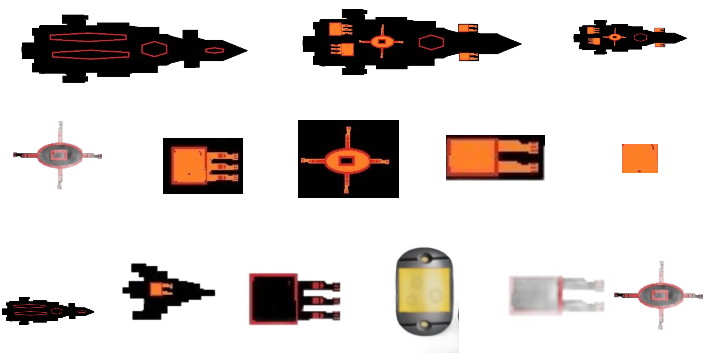
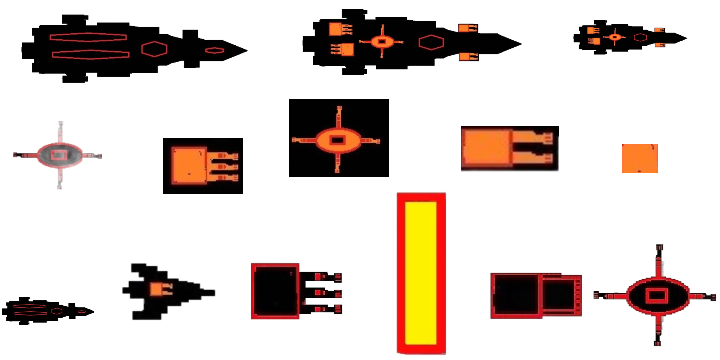
with spaceships and rotating guns

Changed region(s): [[0.3972, 0.275, 0.7944, 1.0], [0.6722, 0.6722, 1.0, 0.9778], [0.3361, 0.7333, 0.4889, 0.9167]]

diff --git a/src/my_game/objects/guns.js b/src/my_game/objects/guns.js
@@ -3,26 +3,140 @@
 import engine from "../../engine/index.js";
 
 class Guns extends engine.GameObject {
-    constructor(spriteTexture, atX, atY) {
+    constructor(spriteTexture, x, y) {
         super(null);
         this.kDelta = 0.2;
-        this.mRenderComponent = new engine.SpriteAnimateRenderable(spriteTexture);
+        this.mRenderComponent =  new engine.SpriteRenderable(spriteTexture);
         this.mRenderComponent.setColor([1, 1, 1, 0]);
-        this.mRenderComponent.getXform().setPosition(atX, atY);
-        this.mRenderComponent.getXform().setSize(10, 8);
-        this.mRenderComponent.setSpriteSequence(512, 0,      // first element pixel position: top-left 512 is top of image, 0 is left of image
-            204, 164,   // width x height in pixels
-            5,          // number of elements in this sequence
-            0);         // horizontal padding in between
-        this.mRenderComponent.setAnimationType(engine.eAnimationType.eSwing);
-        this.mRenderComponent.setAnimationSpeed(30);
+        this.mRenderComponent.getXform().setPosition(x, y);
+        this.mRenderComponent.getXform().setSize(50, 50);
+        this.firstPix=0;
+        this.secondPix=0;
+        this.thirdPix=0;
+        this.forthPix=0; 
+        this.renbdomN = Math.random();
+        this.GunType = 0;
+        if(this.renbdomN <= .3){
+
+        this.firstPix=250;
+        this.secondPix=350;
+        this.thirdPix=0;
+        this.forthPix=100; 
+
+      
+         
+        }else if (this.renbdomN >.3 && this.renbdomN <=.7 ){
+
+         this.firstPix=490;
+        this.secondPix=580 ;
+         this.thirdPix=0;
+         this.forthPix=100;
+        }else{
+
+        this.firstPix=590;
+        this.secondPix=735 ;
+         this.thirdPix=0;
+         this.forthPix=120;
+
+        }
+         
+        
+        this.mRenderComponent.setElementPixelPositions(this.firstPix, this.secondPix, this.thirdPix, this.forthPix);
+        this.mRenderComponent.getXform().setRotationInDegree(180);
         this.die = false;
+        this.size = this.mRenderComponent.getXform().getSize();
+
+        this.shouldBeDestroyedV= false;
+        this.downRight;
+        this.downLeft;
+        this.topRight;
+        this.topLeft;
+
+        this.directionMovingX = 1.0;
+        this.directionMovingY = 1.0;
+
+        this.speed = .5;
+        this.randomSpeedX = Math.random() * this.speed;
+        this.randomSpeedY = Math.random() * this.speed;
+
+        this.uP = true;
+        this.side = true;
     }
 
-    update() {
+    updateG(camra) {
         // remember to update this.mRenderComponent's animation
-        this.mRenderComponent.updateAnimation();
+
+        this.setupRandomDirection(camra);
+        this.mRenderComponent.getXform().setPosition(
+            this.mRenderComponent.getXform().getXPos() + (this.randomSpeedX * this.directionMovingX),
+            this.mRenderComponent.getXform().getYPos() + (this.randomSpeedY * this.directionMovingY));
+
+     
+        if (this.mRenderComponent.getXform().getXPos() > camra.getWCWidth() + 10){
+
+        };
+        if (this.mRenderComponent.die) {       
+
+       }
+}
+    drawGuns(camra){
+        this.mRenderComponent.draw(camra);
+
     }
+
+
+    setupRandomDirection(camra) {
+
+        this.object = this.mRenderComponent.getXform().getPosition();
+
+        this.downRight = [this.object[0] + (this.size[0] / 2), this.object[1] - (this.size[1] / 2)];
+        this.downLeft = [this.object[0] - (this.size[0] / 2), this.object[1] - (this.size[1] / 2)];
+
+        this.topRight = [this.object[0] + (this.size[0] / 2), this.object[1] - (this.size[1] / 2)];
+        this.topLeft = [this.object[0] - (this.size[0] / 2), this.object[1] - (this.size[1] / 2)];
+
+
+        let cWidth = camra.getWCWidth();
+        let cCenter = camra.getWCCenter();
+        let cHight = camra.getWCHeight();
+
+        let cDownRight = [cCenter[0] + (cWidth / 2), cCenter[1] - (cHight / 2)];
+        let cDownLeft = [cCenter[0] - (cWidth / 2), cCenter[1] - (cHight / 2)];
+
+        let cTopRight = [cCenter[0] + (cWidth / 2), cCenter[1] + (cHight / 2)];
+        let cTopLeft = [cCenter[0] - (cWidth / 2), cCenter[1] + (cHight / 2)];
+
+        if ((this.downLeft[1] - cDownRight[1]) <= 0 && this.up) {
+            //calculateDirection("botWall");
+            this.randomSpeedX = (Math.random()) * this.speed;
+            this.randomSpeedY = (Math.random()) * this.speed;
+            this.directionMovingY = this.directionMovingY * -1;
+            this.up = false;
+        }
+        if ((this.downLeft[0] - cDownRight[0]) >= 0 && this.side) {
+            //calculateDirection("rightWall");
+            this.randomSpeedX = (Math.random()) * this.speed;
+            this.randomSpeedY = (Math.random()) * this.speed;
+            this.directionMovingX = this.directionMovingX * -1;
+            this.side = false;
+        }
+        if ((this.downLeft[0] - cTopLeft[0]) <= 0 && !this.side) {
+            // calculateDirection("leftWall");
+            this.randomSpeedX = (Math.random()) * this.speed;
+            this.randomSpeedY = (Math.random()) * this.speed;
+            this.directionMovingX = this.directionMovingX * -1;
+            this.side = true;
+        }
+        if ((this.topLeft[1] - cTopRight[1]) >= 0 && !this.up) {
+            //calculateDirection("upWall"); 
+            this.randomSpeedX = (Math.random()) * this.speed;
+            this.randomSpeedY = (Math.random()) * this.speed;
+            this.directionMovingY = this.directionMovingY * -1;
+            this.up = true;
+        }
+    }
+
+
 
     hit() {
         this.mRenderComponent.setColor([1, 1, 1, this.mRenderComponent.getColor()[3] + 0.2]);

diff --git a/src/my_game/my_game_main.js b/src/my_game/my_game_main.js
@@ -13,19 +13,20 @@ import Interpolate from "../engine/utils/lerp.js";
 import Shake from "../engine/utils/shake_vec2.js";
 import DyePack from "./objects/dye_pack.js";
 import TextureObject from "./objects/texture_object.js";
-
+import Gun from "./objects/guns.js";
 class MyGame extends engine.Scene {
     constructor() {
         super();
         this.kMinionSprite = "assets/minion_sprite.png";
         this.kMinionPortal = "assets/minion_portal.png";
         this.stwarSprite = "assets/result.png";
-        this.kBg = "assets/galaxy.png";
+        this.kBg = "assets/sky.jpg";
 
         this.tempSTR = "XX";
         this.dyePacks = [];
         this.patrols = [];
         this.patrolsHead = [];
+        this.guns = [];
         // The camera to view the scene
         this.mCamera = null;
         this.mHeroCam = null;
@@ -90,9 +91,9 @@ class MyGame extends engine.Scene {
     init() {
         // Step A: set up the cameras
         this.mCamera = new engine.Camera(
-            vec2.fromValues(200, 150), // position of the camera
-            400,                       // width of camera
-            [0, 0, 800, 600]           // viewport (orgX, orgY, width, height)
+            vec2.fromValues(1000, 600), // position of the camera
+            2000,                       // width of camera
+            [0, 0, 2000, 500]           // viewport (orgX, orgY, width, height)
         );
         this.mCamera.setBackgroundColor([0.9, 0.9, 0.9, 1]);
         // sets the background to gray
@@ -109,11 +110,11 @@ class MyGame extends engine.Scene {
 
         // Large background image
         let bgR = new engine.SpriteRenderable(this.kBg);
-        bgR.setElementPixelPositions(0, 1024, 0, 1024);
-        bgR.getXform().setSize(400, 400);
-        bgR.getXform().setPosition(200, 200);
+        bgR.setElementPixelPositions(0, 3000, 0, 789);
+        bgR.getXform().setSize(2000, 600);
+        bgR.getXform().setPosition(1000, 600);
         this.mBg = new engine.GameObject(bgR);
-        engine.defaultResources.setGlobalAmbientIntensity(3);
+        engine.defaultResources.setGlobalAmbientIntensity(5);
         // Objects in the scene
 
         this.mHero = new Hero(this.stwarSprite);
@@ -122,14 +123,14 @@ class MyGame extends engine.Scene {
 
         this.mMsg = new engine.FontRenderable("Status Message");
         this.mMsg.setColor([1, 1, 1, 1]);
-        this.mMsg.getXform().setPosition(1, 14);
-        this.mMsg.setTextHeight(8);
+        this.mMsg.getXform().setPosition(-500, -350);
+        this.mMsg.setTextHeight(25);
 
         // create objects to simulate various motions 
-        this.mBounce = new engine.Oscillate(4.5, 4, 60); // delta, freq, duration  
+        this.mBounce = new engine.Oscillate(40.5, 40, 60); // delta, freq, duration  
         this.shake = new Shake(this.mHero.getXform().getXPos(), this.mHero.getXform().getYPos(), 5, 100);
-        this.interpolateX = new Interpolate(this.mHero.getXform().getXPos(), 120, 0.05);
-        this.interpolateY = new Interpolate(this.mHero.getXform().getYPos(), 120, 0.05);
+        this.interpolateX = new Interpolate(this.mHero.getXform().getXPos(), 420, 0.05);
+        this.interpolateY = new Interpolate(this.mHero.getXform().getYPos(), 420, 0.05);
     }
 
     _drawCamera(camera) {
@@ -144,6 +145,12 @@ class MyGame extends engine.Scene {
         for (let i = 0; i < this.patrols.length; i++) {
             this.patrols[i].drawInPatrol(camera);
         }
+
+        for (let i = 0; i < this.guns.length; i++) {
+            this.guns[i].drawGuns(camera);
+        }
+
+      
     }
 
     // This is the draw function, make sure to setup proper drawing environment, and more
@@ -155,8 +162,9 @@ class MyGame extends engine.Scene {
         // Step  B: Draw with all three cameras
         this._drawCamera(this.mCamera);
         this.mMsg.draw(this.mCamera);   // only draw status in the main camera
-
+    
         this._drawCamera(this.hitCam1);
+
  
     }
 
@@ -210,15 +218,38 @@ class MyGame extends engine.Scene {
                 this.time = performance.now();
             }}
 
+
+         
+
+
         // inputs
         if (engine.input.isKeyClicked(engine.input.keys.Space)) {
-            this.dyePacks.push(new DyePack(this.kMinionSprite, this.mHero.getXform().getXPos(), this.mHero.getXform().getYPos()));
+            this.dyePacks.push(new DyePack(this.stwarSprite, this.mHero.getXform().getXPos(), this.mHero.getXform().getYPos()));
         }
 
         if (engine.input.isKeyClicked(engine.input.keys.C)) {
-            this.xPoint = ((Math.random() * this.mCamera.getWCWidth()) / 2) + (this.mCamera.getWCWidth() / 2);
-            this.yPoint = Math.random() * this.mCamera.getWCHeight();
+            this.xPoint = (2000);
+            this.yPoint = (Math.random() * this.mCamera.getWCHeight()/2)+ (this.mCamera.getWCHeight() / 2);
             this.patrols.push(new Patrol(this.kMinionPortal, this.stwarSprite, this.stwarSprite, this.xPoint, this.yPoint));
+        }
+
+        if (engine.input.isKeyClicked(engine.input.keys.D)) {
+            this.xPoint = (1000);
+            this.yPoint = ( 600);
+            this.guns.push(new Gun(this.stwarSprite, this.xPoint, this.yPoint));
+        }
+
+
+        for (let i = 0; i < this.guns.length; i++) {
+            this.guns[i].updateG(this.mCamera);
+         
+            if (this.guns[i].shouldBeDestroyedV)
+                this.guns.splice(i, 1);
+
+            // check if the hero touches any Patrol units 
+            //if (this.mHero.pixelTouches(this.guns[i].botObject, this.pixelTouchesArray) ) {
+
+           // }
         }
 
         if (engine.input.isKeyClicked(engine.input.keys.Q) || this.Qactive) {

diff --git a/src/my_game/objects/dye_pack.js b/src/my_game/objects/dye_pack.js
@@ -17,8 +17,8 @@ class DyePack extends engine.GameObject {
     this.mRenderComponent.setColor([1, 1, 1, 0.1]);
     this.mRenderComponent.getXform().setPosition(x, y);
 
-    this.mRenderComponent.getXform().setSize(2, 3.25);
-    this.mRenderComponent.setElementPixelPositions(510, 595, 23, 153);
+    this.mRenderComponent.getXform().setSize(10, 20);
+    this.mRenderComponent.setElementPixelPositions(375, 450, 0, 175) ;
     this.mRenderComponent.getXform().setRotationInDegree(90);
 
     this.timeOfLife = 2000;
@@ -26,7 +26,7 @@ class DyePack extends engine.GameObject {
     this.shouldBeDestroyedV = false;
 
 
-    this.units = 120;
+    this.units = 600;
     this.frames = 60;
 
     this.speed = this.units / this.frames;

diff --git a/src/my_game/objects/brain.js b/src/my_game/objects/brain.js
@@ -7,11 +7,11 @@ class Brain extends engine.GameObject {
         super(null);
         this.kDeltaDegree = 1;
         this.kDeltaRad = Math.PI * this.kDeltaDegree / 180;
-        this.kDeltaSpeed = 0.01;
+        this.kDeltaSpeed = 3;
         this.mRenderComponent =  new engine.SpriteRenderable(spriteTexture);
         this.mRenderComponent.setColor([1, 1, 1, 0]);
         this.mRenderComponent.getXform().setPosition(x, y);
-        this.mRenderComponent.getXform().setSize(50, 25);
+        this.mRenderComponent.getXform().setSize(150, 50);
         this.mRenderComponent.setElementPixelPositions(300, 550, 285 ,400);
         this.mRenderComponent.getXform().setRotationInDegree(180);
        

diff --git a/src/my_game/objects/minion.js b/src/my_game/objects/minion.js
@@ -9,7 +9,7 @@ class Minion extends engine.GameObject {
         this.mRenderComponent = new engine.SpriteRenderable(spriteTexture);
         this.mRenderComponent.setColor([1, 1, 1, 0]);
         this.mRenderComponent.getXform().setPosition(atX, atY);
-        this.mRenderComponent.getXform().setSize(20, 20);
+        this.mRenderComponent.getXform().setSize(10, 10);
         this.mRenderComponent.setElementPixelPositions(100, 230, 0, 100);
         this.mRenderComponent.getXform().setRotationInDegree(180);
               // horizontal padding in between

diff --git a/src/my_game/objects/hero.js b/src/my_game/objects/hero.js
@@ -9,8 +9,8 @@ class Hero extends engine.GameObject {
 
         this.mRenderComponent = new engine.SpriteRenderable(spriteTexture);
         this.mRenderComponent.setColor([1, 1, 1, 0]);
-        this.mRenderComponent.getXform().setPosition(35, 50);
-        this.mRenderComponent.getXform().setSize(130, 130);  
+        this.mRenderComponent.getXform().setPosition(200, 600);
+        this.mRenderComponent.getXform().setSize(200, 200);  
         this.mRenderComponent.setElementPixelPositions(0, 100, 0, 100);
         this.oscillate = false;
     }

diff --git a/index.html b/index.html
@@ -15,7 +15,7 @@
     </head>
 
      <body>    
-        <canvas id="GLCanvas" width="800" height="600">
+        <canvas id="GLCanvas" width="2000" height="500">
             <!-- GLCanvas is the area we will draw in -->
             Your browser does not support the HTML5 canvas.
             <!-- this message will show only if WebGL clearing failed -->

diff --git a/src/my_game/objects/patrol.js b/src/my_game/objects/patrol.js
@@ -42,7 +42,7 @@ class Patrol extends engine.GameObject {
         this.directionMovingX = 1.0;
         this.directionMovingY = 1.0;
 
-        this.speed = .5;
+        this.speed = 2;
         this.randomSpeedX = Math.random() * this.speed;
         this.randomSpeedY = Math.random() * this.speed;
 
